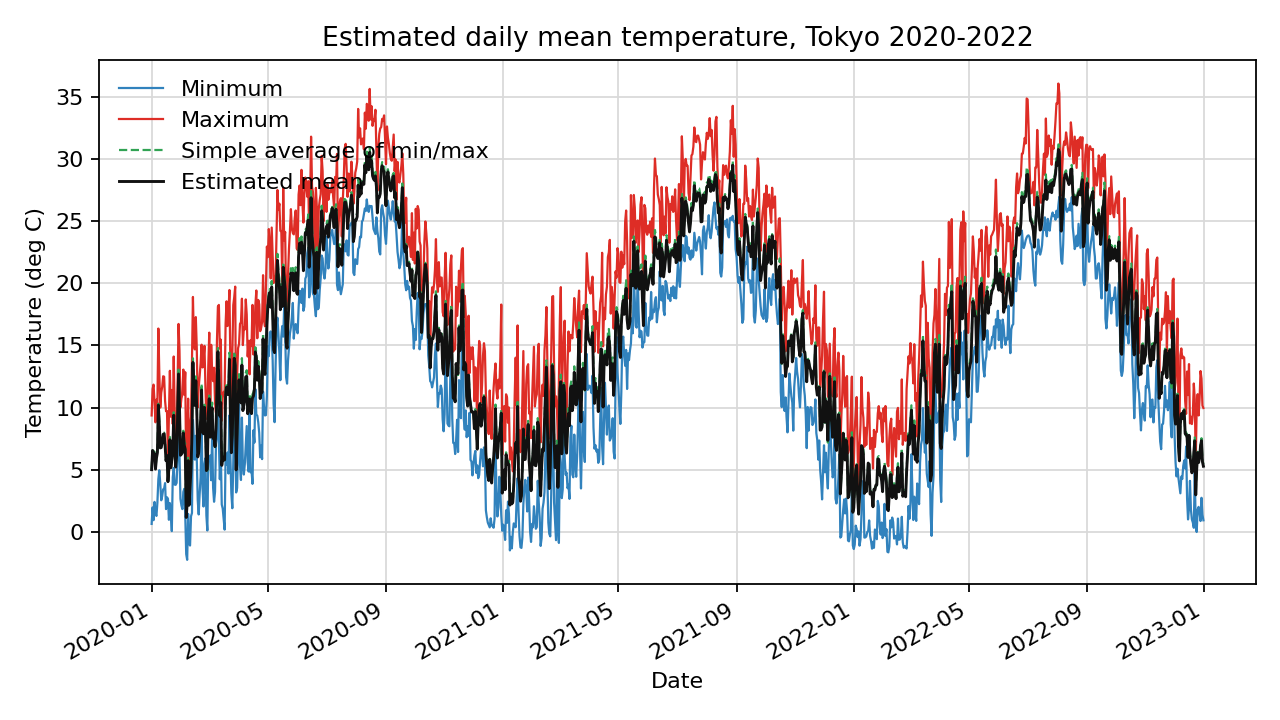
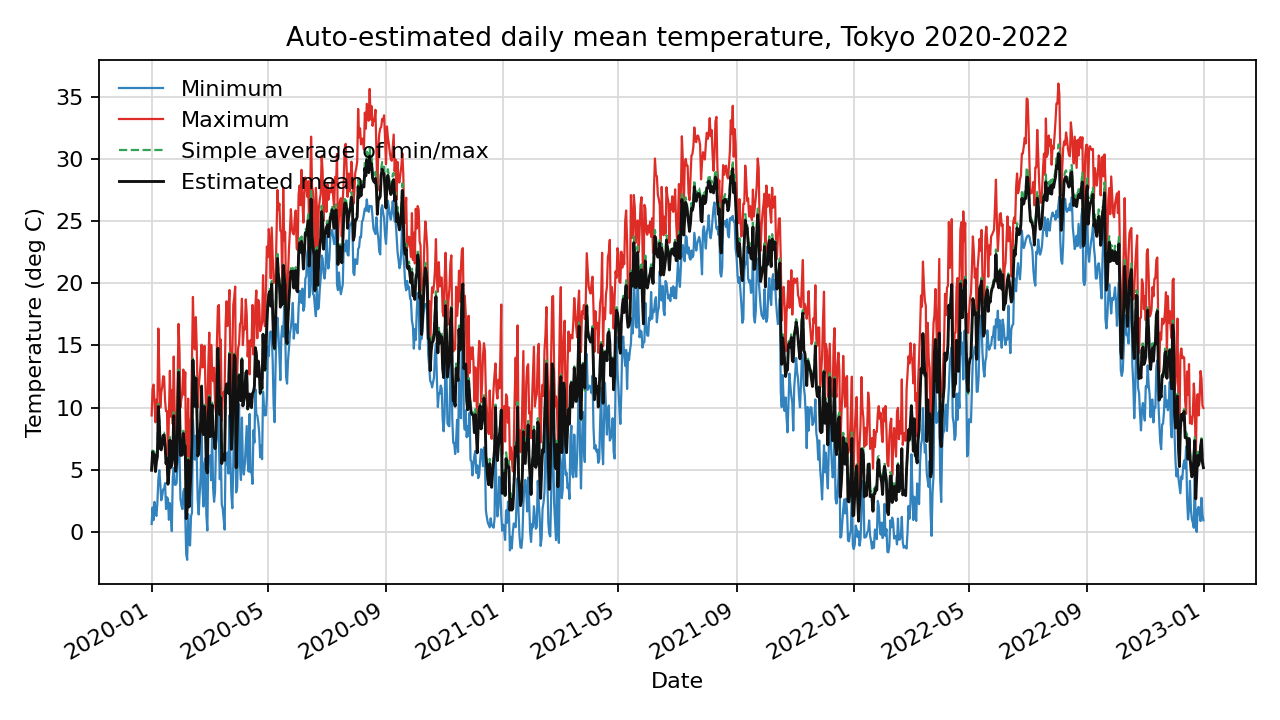
Use auto estimate in mean plot example

diff --git a/examples/plot_example.py b/examples/plot_example.py
@@ -22,8 +22,10 @@ def build_example_data():
         end_date=end_date,
         lat=lat,
         lon=lon,
+        add_max_prev=True,
     )
     weather["Date"] = pd.to_datetime(weather["Date"])
+    weather["Year"] = weather["Date"].dt.year
 
     photoperiod = averagers.get_photoperiod(
         start_date=start_date,
@@ -32,16 +34,27 @@ def build_example_data():
         lon=lon,
         timezone=timezone,
     )
-    weather = weather.join(photoperiod[["Sunset_nondimensional"]])
-    started = perf_counter()
-    params = averagers.get_params(weather, method="DH2006", optimizer="least_squares")
-    fit_seconds = perf_counter() - started
-    weather["Ave_sim"] = averagers.get_average_temperature(
-        weather,
-        params=params,
-        method="DH2006",
+    weather = weather.join(
+        photoperiod[["Sunrise_nondimensional", "Sunset_nondimensional", "Daytime"]]
     )
-    weather.attrs["params"] = params
+    started = perf_counter()
+    weather, metrics = averagers.cross_validate_estimates(
+        weather,
+        specs=[
+            {"name": "Simple mean", "column": "Ave_simple", "kind": "simple"},
+            {
+                "name": "Auto best",
+                "column": "Ave_est_auto",
+                "kind": "auto",
+                "method": "Auto",
+                "setting": "auto",
+                "candidates": averagers.get_default_auto_candidates(),
+                "selection_scope": "global",
+            },
+        ],
+    )
+    fit_seconds = perf_counter() - started
+    weather.attrs["metrics"] = metrics
     weather.attrs["fit_seconds"] = fit_seconds
     return weather
 
@@ -51,14 +64,19 @@ def main():
 
     averagers.plot_temperature_estimates(
         weather,
+        estimated_column="Ave_est_auto",
+        simple_average_column="Ave_simple",
         output=OUTPUT,
-        title="Estimated daily mean temperature, Tokyo 2020-2022",
+        title="Auto-estimated daily mean temperature, Tokyo 2020-2022",
     )
-    params = weather.attrs["params"]
+    selected = weather.attrs["selected_candidates"]["Ave_est_auto"]["all"]
+    rmse = weather.attrs["metrics"].loc[
+        weather.attrs["metrics"]["estimate"] == "Auto best",
+        "RMSE",
+    ].item()
     print(
-        "Fitted DH2006 params from NASA POWER T2M: "
-        f"CD={params['CD']:.3f}, CN={params['CN']:.3f} "
-        f"in {weather.attrs['fit_seconds']:.3f} s"
+        f"Auto-selected candidate: {selected}; "
+        f"RMSE={rmse:.3f}; fit={weather.attrs['fit_seconds']:.3f} s"
     )
     print(f"Wrote {OUTPUT}")
 

diff --git a/README.md b/README.md
@@ -48,9 +48,9 @@ DH2006 splits the day at sunset and fits two parameters, `CD` and `CN`, for dayt
 
 ## Estimated Mean Plot
 
-![Estimated daily mean temperature, Tokyo 2020-2022](docs/example_plot.png)
+![Auto-estimated daily mean temperature, Tokyo 2020-2022](docs/example_plot.png)
 
-This example downloads three years of daily NASA POWER data for Tokyo, fits DH2006 parameters against NASA POWER `T2M`, and plots the estimated daily mean against the simple min/max mean.
+This example downloads three years of daily NASA POWER data for Tokyo, uses `Auto best` against NASA POWER `T2M`, and plots the selected estimate against the simple min/max mean.
 
 ```python
 from time import perf_counter
@@ -70,8 +70,10 @@ weather = averagers.fetch_power_daily_temperature(
     end_date=end_date,
     lat=lat,
     lon=lon,
+    add_max_prev=True,
 )
 weather["Date"] = pd.to_datetime(weather["Date"])
+weather["Year"] = weather["Date"].dt.year
 
 photoperiod = averagers.get_photoperiod(
     start_date=start_date,
@@ -80,25 +82,39 @@ photoperiod = averagers.get_photoperiod(
     lon=lon,
     timezone=timezone,
 )
-weather = weather.join(photoperiod[["Sunset_nondimensional"]])
+weather = weather.join(
+    photoperiod[["Sunrise_nondimensional", "Sunset_nondimensional", "Daytime"]]
+)
 
 started = perf_counter()
-params = averagers.get_params(weather, method="DH2006", optimizer="least_squares")
-fit_seconds = perf_counter() - started
-
-weather["Ave_sim"] = averagers.get_average_temperature(
+weather, metrics = averagers.cross_validate_estimates(
     weather,
-    params=params,
-    method="DH2006",
+    specs=[
+        {"name": "Simple mean", "column": "Ave_simple", "kind": "simple"},
+        {
+            "name": "Auto best",
+            "column": "Ave_est_auto",
+            "kind": "auto",
+            "method": "Auto",
+            "setting": "auto",
+            "candidates": averagers.get_default_auto_candidates(),
+            "selection_scope": "global",
+        },
+    ],
 )
+fit_seconds = perf_counter() - started
 
 averagers.plot_temperature_estimates(
     weather,
+    estimated_column="Ave_est_auto",
+    simple_average_column="Ave_simple",
     output="docs/example_plot.png",
-    title="Estimated daily mean temperature, Tokyo 2020-2022",
+    title="Auto-estimated daily mean temperature, Tokyo 2020-2022",
 )
 
-print(f"CD={params['CD']:.3f}, CN={params['CN']:.3f}, fit={fit_seconds:.3f} s")
+print(weather.attrs["selected_candidates"]["Ave_est_auto"]["all"])
+print(metrics[["estimate", "RMSE"]].round(3))
+print(f"fit={fit_seconds:.3f} s")
 ```
 
 Run the script version: